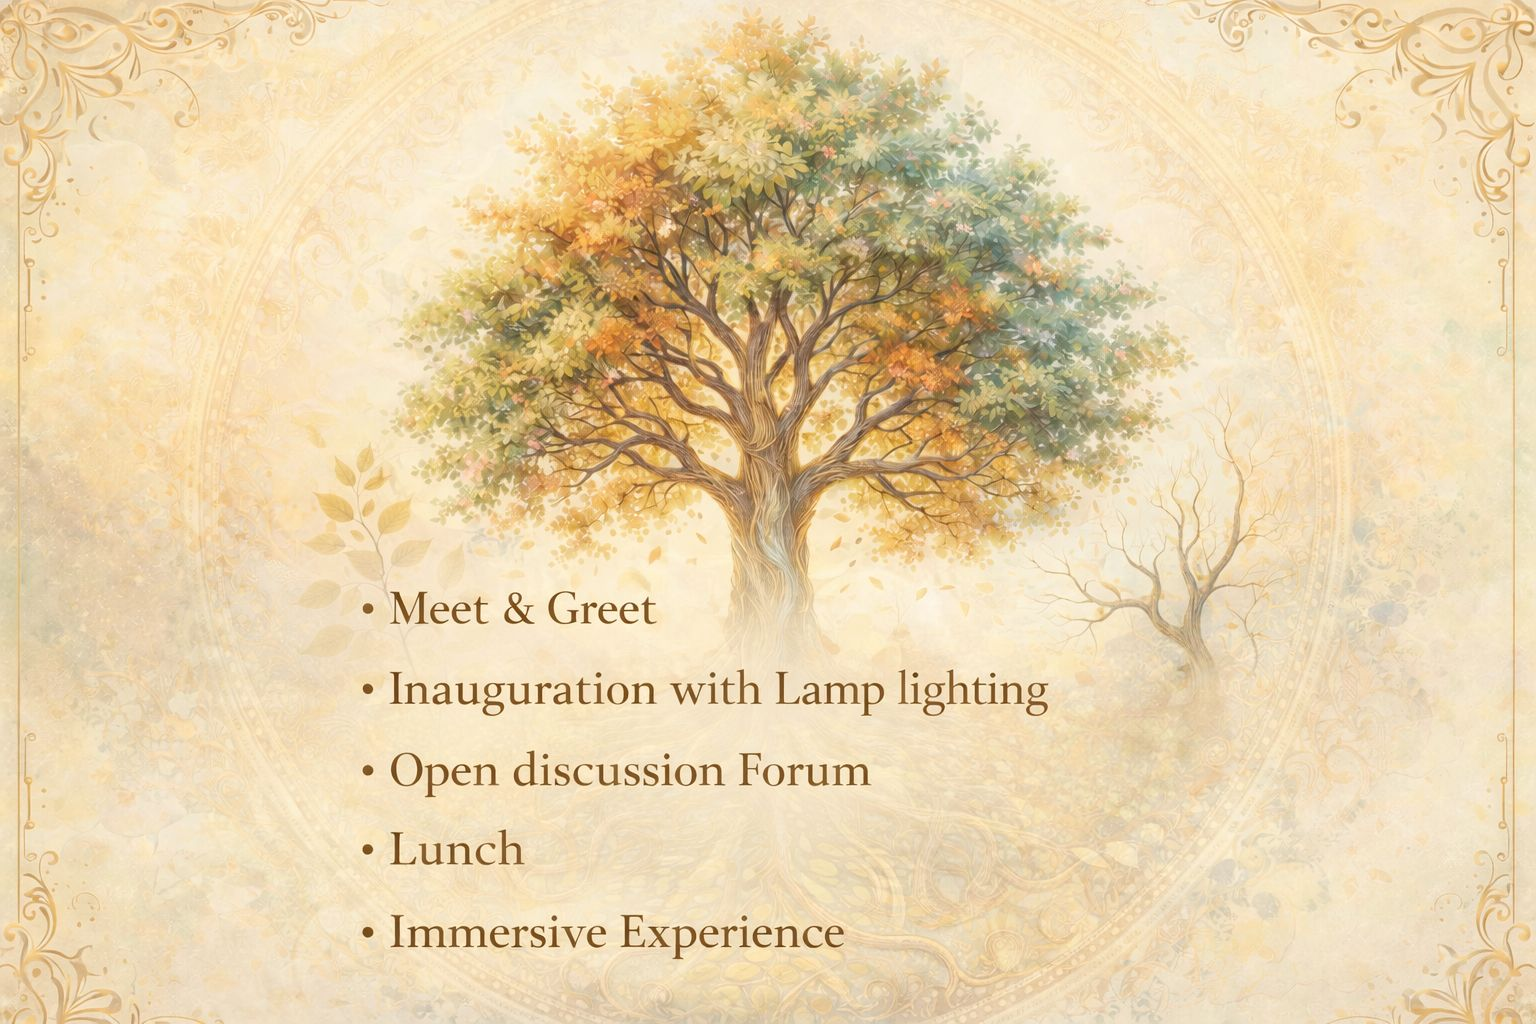
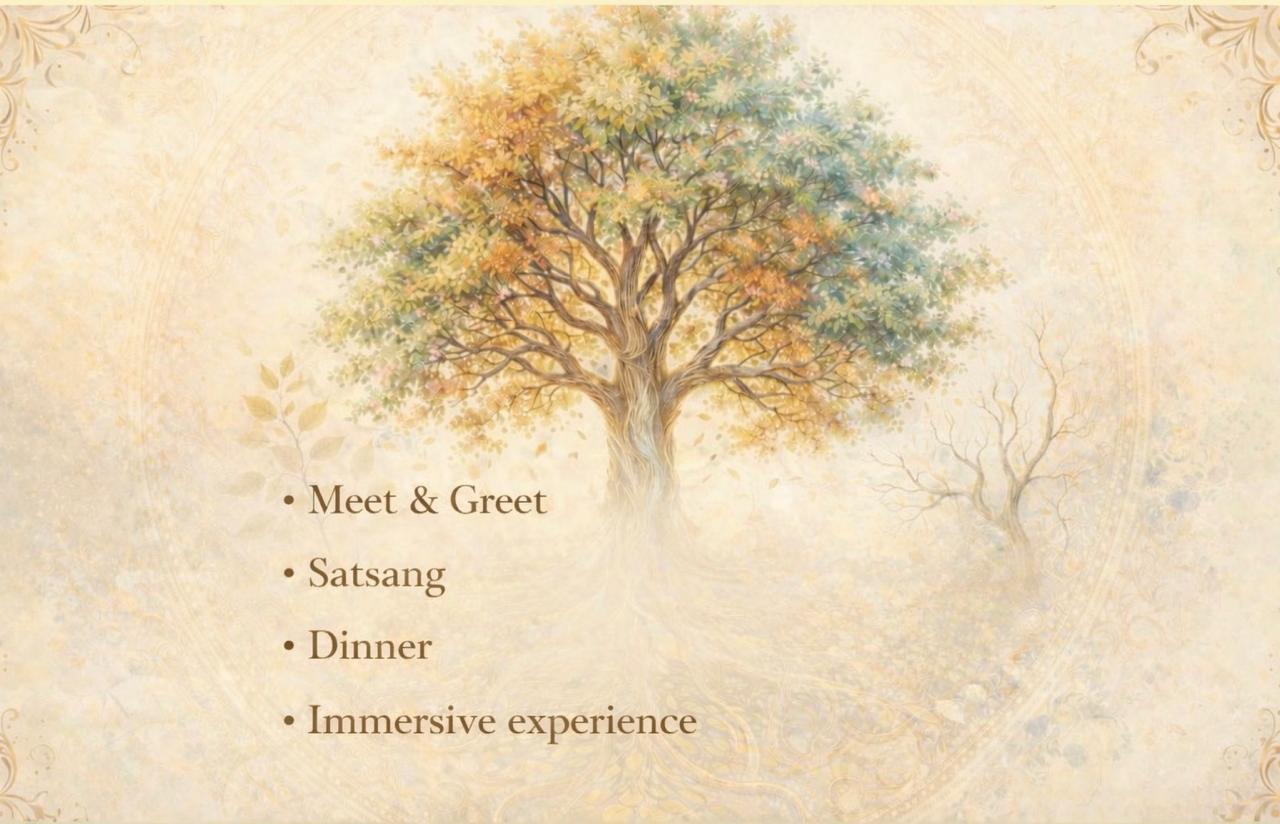
updated image and description of program

diff --git a/src/translations/nl.ts b/src/translations/nl.ts
@@ -22,11 +22,11 @@ const nl = {
   program_heading: "Programmaonderdelen",
   program1_title: "Ontmoeting & Kennismaking",
   program1_desc:
-    "Een open en gastvrije ruimte om in contact te komen en te praten met medebezoekers, organisatoren en sprekers.",
+    "Een open en gastvrije ruimte om met iedereen in contact te komen en samen te zijn onder het genot van een warme kop koffie of thee.",
   program1_time: "03:00 PM",
   program2_title: "Satsang",
   program2_desc:
-    "Een culturele gemeente",
+    "Een zalige spirituele samenkomst waar iedereen samenkomt om geest en hart te verheffen door devotioneel zingen, meditatie en bezinning, spirituele voordrachten en energieke kirtans. De collectieve energie maakt de sfeer diep transformerend.",
   program2_time: "03:30 PM",
   program3_title:
     "Open discussieforum: Van Ik naar Wij – Een reis voorbij het Zelf",

diff --git a/src/translations/en.ts b/src/translations/en.ts
@@ -22,11 +22,11 @@ const en = {
   program_heading: "Program details",
   program1_title: "Meet And Greet",
   program1_desc:
-    "An open and welcoming space to connect and interact with fellow attendees, organisers and speakers.",
+    "An open and welcoming space to connect and interact with everyone over a warm cup of coffee/tea.",
   program1_time: "03:00 PM",
   program2_title: "Satsang",
   program2_desc:
-    "A cultural congregation",
+    "A blissful spiritual gathering where everyone comes together to elevate their minds and hearts through devotional singing, meditation and reflection, spiritual discourses and energetic keertans.  The collective energy makes the atmosphere deeply transformative.",
   program2_time: "03:30 PM",
   program3_title:
     "Open discussion Forum: From Me to We - A journey beyond Self",
